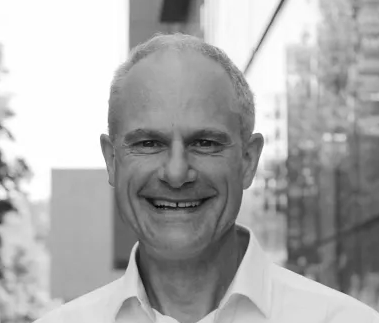
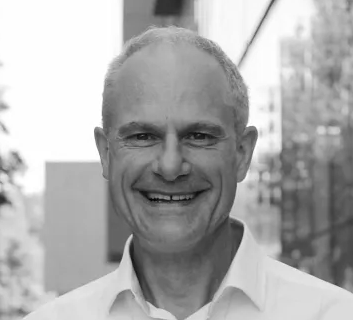
jkn

diff --git a/index.html b/index.html
@@ -114,7 +114,7 @@ Setup notes:
             <div class="role">BSc Student</div>
           </div>
           <div class="team-member">
-            <img class="about-avatar" src="assets/Snigdha.jpg" alt="Headshot of Snigdha Mudigonda" />
+            <img class="about-avatar" src="assets/Snigdha.png" alt="Headshot of Snigdha Mudigonda" />
             <div class="name">Snigdha Mudigonda</div>
             <div class="role">BSc Student</div>
           </div>
